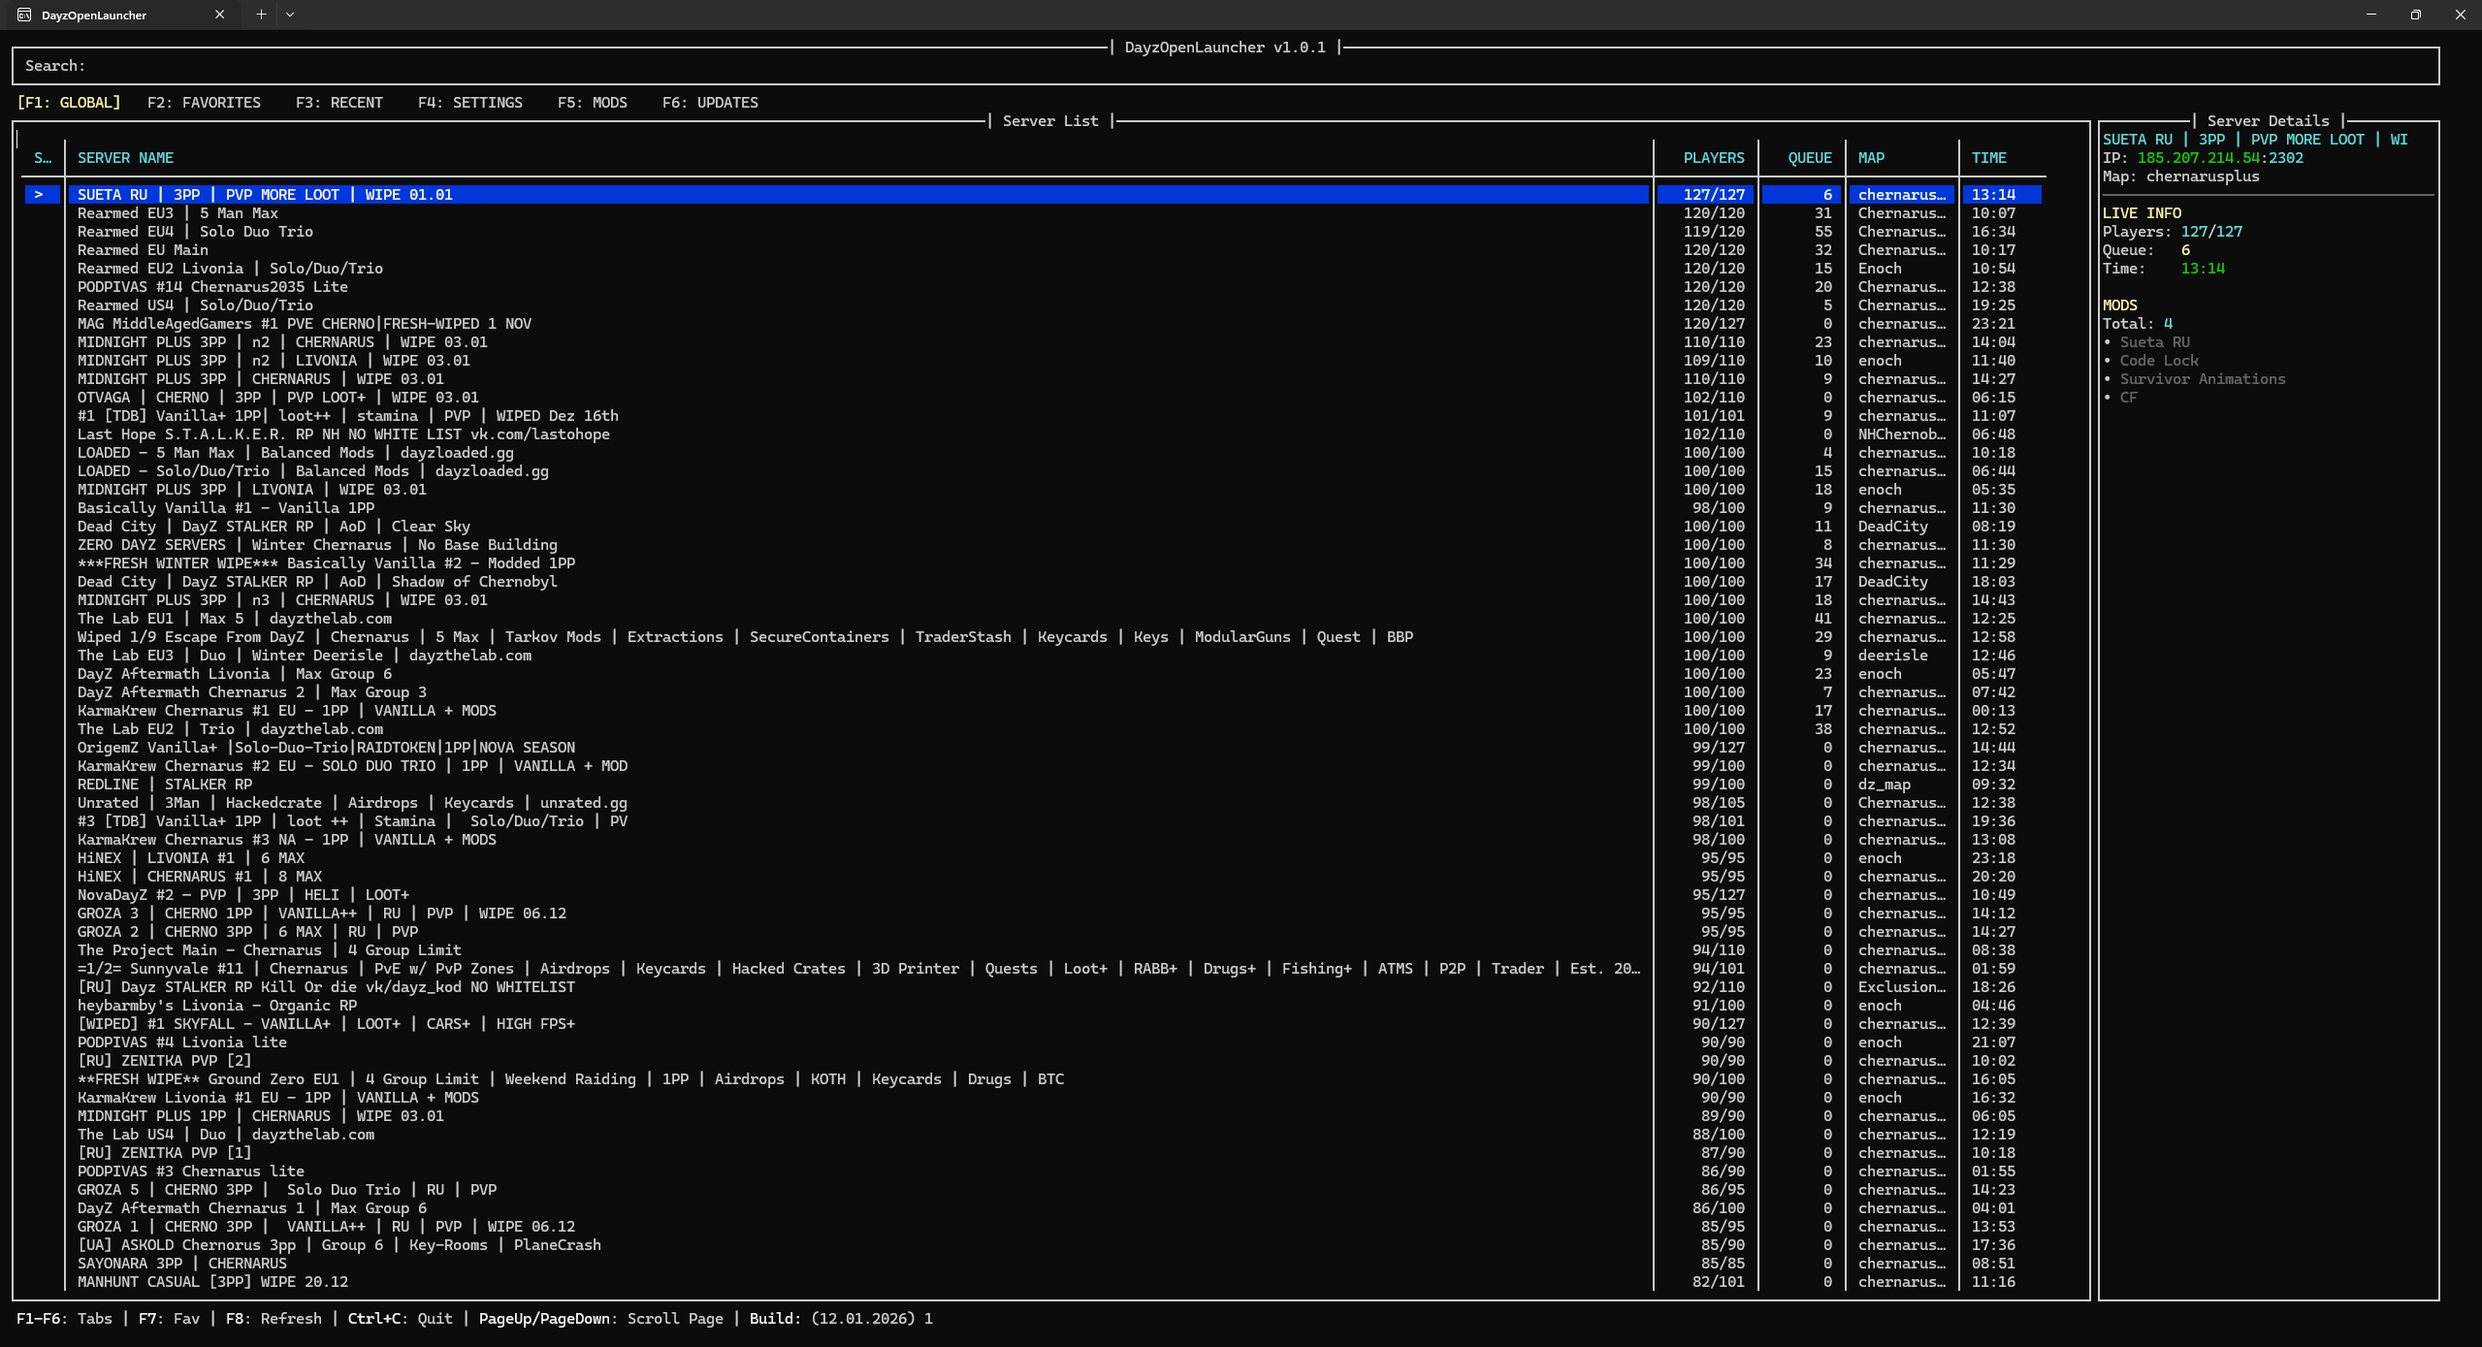
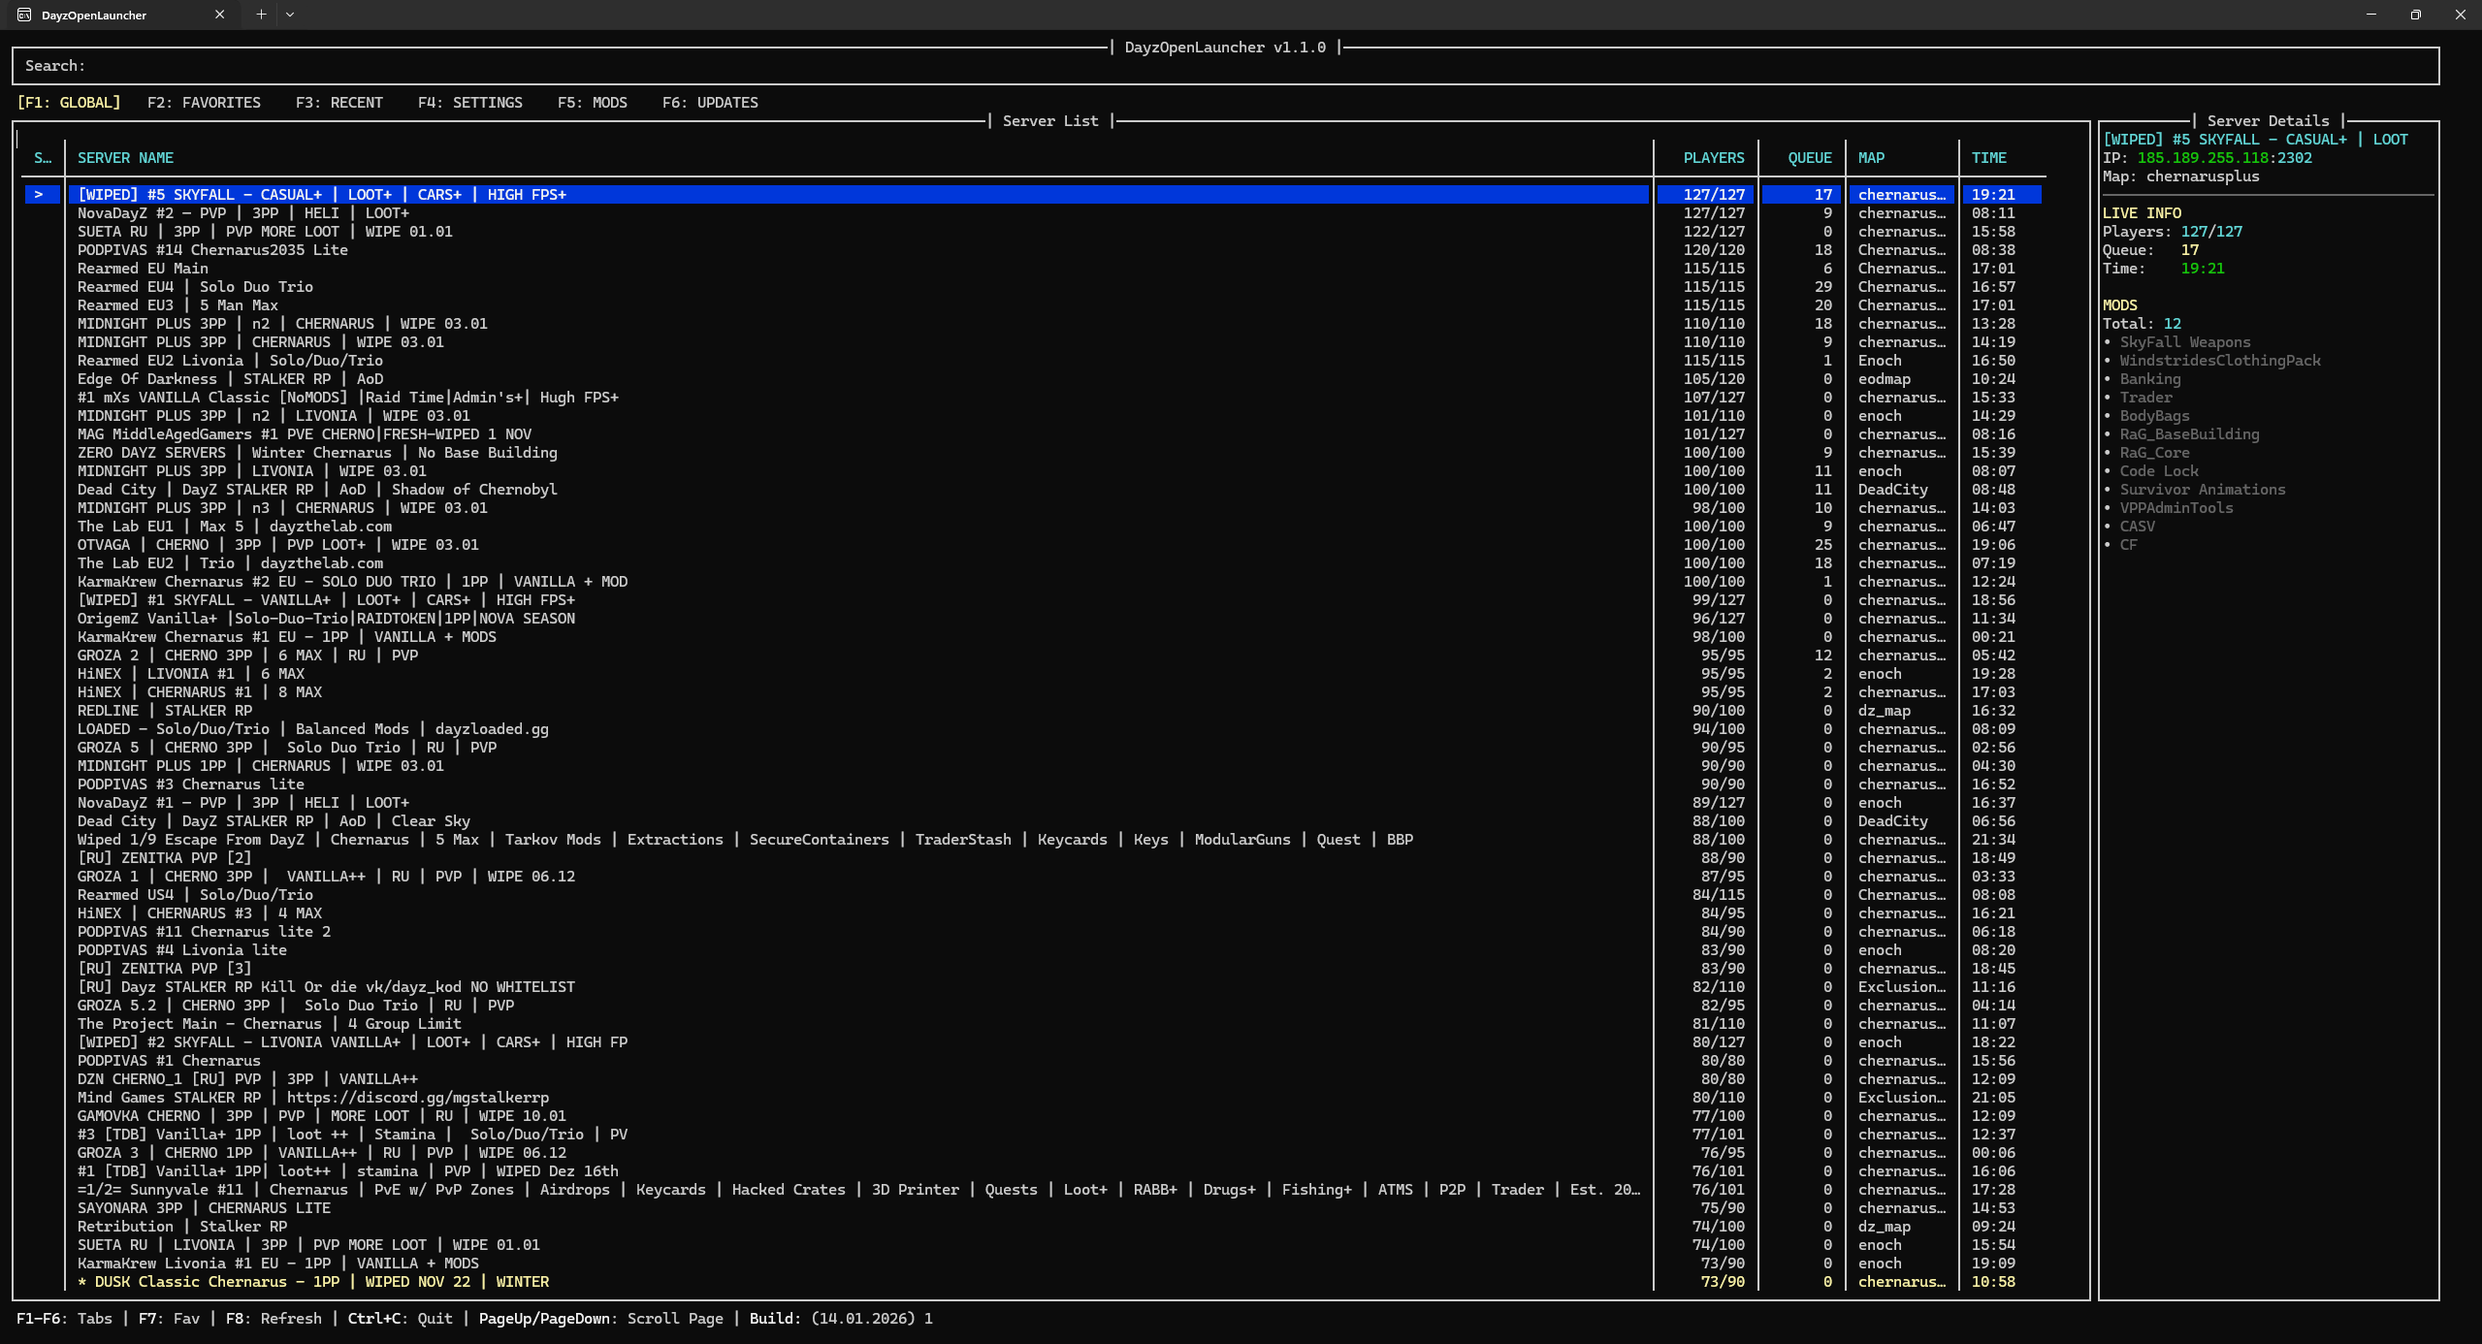
Update to version 1.1.0 - add linux update process

diff --git a/Source/linux/updater.py b/Source/linux/updater.py
@@ -1,0 +1,138 @@
+import os
+import sys
+import time
+import zipfile
+import logging
+import requests
+import subprocess
+import shutil
+from pathlib import Path
+
+REPO = "PawelKawka/DayzOpenLauncher"
+GITHUB_API_URL = f"https://api.github.com/repos/{REPO}/releases/latest"
+
+def setup_logging(root_dir):
+    log_file = root_dir / "updater.log"
+    logging.basicConfig(
+        level=logging.INFO,
+        format='%(asctime)s [%(levelname)s] %(message)s',
+        handlers=[
+            logging.FileHandler(log_file),
+            logging.StreamHandler()
+        ]
+    )
+
+def kill_process_by_name(name):
+    try:
+        if sys.platform != "win32":
+            my_pid = os.getpid()
+            pids_raw = subprocess.check_output(["pgrep", "-f", name]).decode().split()
+            for pid_str in pids_raw:
+                pid = int(pid_str)
+                if pid != my_pid:
+                    logging.info(f"Force closing process PID: {pid}")
+                    try:
+                        os.kill(pid, 9)
+                    except OSError:
+                        pass
+    except subprocess.CalledProcessError:
+        pass
+    except Exception as e:
+        logging.warning(f"Error closing processes: {e}")
+
+def update():
+    if getattr(sys, 'frozen', False):
+        current_exe = Path(sys.executable)
+        if current_exe.parent.name == "_internal":
+            root_dir = current_exe.parent.parent
+        else:
+            root_dir = current_exe.parent
+    else:
+        root_dir = Path(__file__).parent.parent.parent
+    
+    setup_logging(root_dir)
+    logging.info("Starting update process...")
+
+    time.sleep(2)
+
+    try:
+        logging.info("Fetching latest release from GitHub...")
+        response = requests.get(GITHUB_API_URL, timeout=15)
+        response.raise_for_status()
+        data = response.json()
+        version = data.get("tag_name", "unknown")
+
+        assets = data.get("assets", [])
+        download_url = next((a.get("browser_download_url") for a in assets if "linux.zip" in a.get("name", "").lower()), None)
+
+        if not download_url:
+            logging.error("Error: linux.zip not found in Release")
+            return
+
+        zip_path = root_dir / "update_package.zip"
+        logging.info(f"Downloading version {version} from: {download_url}")
+        
+        with requests.get(download_url, stream=True, timeout=60) as r:
+            r.raise_for_status()
+            with open(zip_path, 'wb') as f:
+                for chunk in r.iter_content(chunk_size=1024*1024):
+                    f.write(chunk)
+
+        logging.info("Installing...")
+        temp_extract = root_dir / "temp_update_extract"
+        if temp_extract.exists(): shutil.rmtree(temp_extract)
+        temp_extract.mkdir()
+        
+        with zipfile.ZipFile(zip_path, 'r') as zip_ref:
+            zip_ref.extractall(temp_extract)
+
+        source_content_dir = None
+        for p in temp_extract.rglob("DayzOpenLauncher"):
+            if p.is_file():
+                source_content_dir = p.parent
+                break
+        
+        if not source_content_dir:
+            logging.error("Error: Binary not found in update package")
+            return
+
+        logging.info(f"Copying new files from {source_content_dir} to {root_dir}")
+        
+        for item in source_content_dir.iterdir():
+            if item.name == "updater" or item.name == "updater.log" or item.name == "update_package.zip":
+                continue 
+                
+            dest = root_dir / item.name
+            try:
+                if item.is_dir():
+                    if dest.exists(): shutil.rmtree(dest)
+                    shutil.copytree(item, dest)
+                else:
+                    if dest.exists(): dest.unlink()
+                    shutil.copy2(item, dest)
+            except Exception as e:
+                logging.warning(f"Problem copying {item.name}: {e}. Continuing...")
+
+        logging.info("Cleaning up temporary files...")
+        zip_path.unlink(missing_ok=True)
+        shutil.rmtree(temp_extract, ignore_errors=True)
+
+        launcher_path = root_dir / "DayzOpenLauncher"
+        if launcher_path.exists():
+            try:
+                os.chmod(launcher_path, 0o755)
+            except: pass
+            
+            logging.info(f"Update to {version} successful")
+            logging.info("You can now run it using command: dayzopenlauncher")
+            sys.exit(0)
+        else:
+            logging.error("CRITICAL ERROR: Launcher binary not found after update")
+            sys.exit(1)
+
+    except Exception as e:
+        logging.error(f"Critical update error: {e}", exc_info=True)
+        sys.exit(1)
+
+if __name__ == "__main__":
+    update()

diff --git a/Source/main.py b/Source/main.py
@@ -1,5 +1,19 @@
 import sys
 import os
+import requests
+import subprocess
+import platform
+import logging
+from pathlib import Path
+
+logging.basicConfig(
+    level=logging.INFO,
+    format='%(asctime)s [%(levelname)s] %(message)s',
+    handlers=[
+        logging.FileHandler(Path(__file__).parent / "launcher.log"),
+        logging.StreamHandler()
+    ]
+)
 
 if getattr(sys, 'frozen', False):
     root_dir = os.path.dirname(sys.executable)
@@ -9,8 +23,103 @@ if getattr(sys, 'frozen', False):
 else:
     sys.path.insert(0, os.path.dirname(__file__))
 
-if __name__ == "__main__":
-    from start import DayZLauncherTUI
+from constants import VERSION
+
+def start_update_process():
+    logging.info("Initiating the update process...")
+    try:
+        if getattr(sys, 'frozen', False):
+            base_dir = Path(sys.executable).parent
+            updater_bin = base_dir / "_internal" / "updater"
+            if not updater_bin.exists():
+                updater_bin = base_dir / "updater"
+            
+            if platform.system() == "Linux":
+                try:
+                    os.chmod(updater_bin, 0o755)
+                except:
+                    pass
+                os.execv(str(updater_bin), [str(updater_bin)])
+            else:
+                subprocess.Popen([str(updater_bin)], start_new_session=True, cwd=str(base_dir))
+                sys.exit(0)
+        else:
+            base_dir = Path(__file__).parent
+            updater_script = base_dir / "linux" / "updater.py"
+            if platform.system() == "Linux":
+                os.execv(sys.executable, [sys.executable, str(updater_script)])
+            else:
+                subprocess.Popen([sys.executable, str(updater_script)], start_new_session=True, cwd=str(base_dir))
+                sys.exit(0)
+        
+        logging.info("Updater has been started. Closing the main application.")
+    except Exception as e:
+        logging.error(f"Failed to start the update process: {e}")
+
+def check_for_updates():
+    repo = "PawelKawka/DayzOpenLauncher"
+    api_url = f"https://api.github.com/repos/{repo}/releases/latest"
     
+    try:
+        logging.info("Checking for updates...")
+        response = requests.get(api_url, timeout=5)
+        response.raise_for_status()
+        data = response.json()
+        latest_tag = data.get("tag_name", "").lstrip('v')
+        
+        if latest_tag != VERSION:
+            logging.info(f"New version available: {latest_tag}")
+            return True, latest_tag
+    except requests.exceptions.RequestException as e:
+        logging.error(f"Network error while checking for updates: {e}")
+    except Exception as e:
+        logging.error(f"Unexpected error while checking for updates: {e}")
+    
+    return False, None
+
+if __name__ == "__main__":
+    if len(sys.argv) > 1 and sys.argv[1].lower() == "remove":
+        print("--- DayzOpenLauncher removal ---")
+        confirm = input("Are you sure you want to remove DayzOpenLauncher? (y/N): ")
+        if confirm.lower() == 'y':
+            try:
+                home = Path.home()
+                install_dir = home / ".local" / "share" / "DayzOpenLauncher"
+                if install_dir.exists():
+                    import shutil
+                    shutil.rmtree(install_dir)
+                    print(f"Removed files: {install_dir}")
+
+                potential_links = [
+                    home / ".local" / "bin" / "dayzopenlauncher",
+                    Path("/usr/local/bin/dayzopenlauncher")
+                ]
+                for link in potential_links:
+                    if link.exists():
+                        if os.access(link, os.W_OK):
+                            link.unlink()
+                            print(f"Removed symlink: {link}")
+                        else:
+                            print(f"Requesting sudo to remove link: {link}")
+                            os.system(f"sudo rm {link}")
+
+                config_dir = home / ".config" / "DayzOpenLauncher"
+                if config_dir.exists():
+                    rem_conf = input("Do you want to remove config and favorites? (y/N): ")
+                    if rem_conf.lower() == 'y':
+                        import shutil
+                        shutil.rmtree(config_dir)
+                        print(f"Removed configuration: {config_dir}")
+
+                print("Done")
+            except Exception as e:
+                print(f"Error during removal: {e}")
+        sys.exit(0)
+
+    from start import DayZLauncherTUI
     tui = DayZLauncherTUI()
     tui.run()
+    
+    if tui.run_update_on_exit:
+        start_update_process()
+

diff --git a/Source/keybindings.py b/Source/keybindings.py
@@ -83,10 +83,13 @@ class KeyBinder:
         def _updates(event): self.tui.switch_tab("UPDATES")
         
         @kb.add('enter', filter=Condition(lambda: self.tui.current_tab == "UPDATES" and not self.tui.show_launch_dialog))
-        def _open_update_link(event):
+        def _start_update(event):
             if self.tui.latest_update_info:
-                import webbrowser
-                webbrowser.open(self.tui.latest_update_info.get("url", "https://github.com/PawelKawka/DayzOpenLauncher/releases"))
+                if hasattr(self.tui, 'update_checker'):
+                    self.tui.update_checker.start_update_process()
+                else:
+                    import webbrowser
+                    webbrowser.open(self.tui.latest_update_info.get("url", "https://github.com/PawelKawka/DayzOpenLauncher/releases"))
 
         @kb.add('f7')
         def _favorite_global(event):

diff --git a/Source/ui_layout.py b/Source/ui_layout.py
@@ -1,4 +1,5 @@
 import textwrap
+import platform
 from prompt_toolkit.layout import Layout, HSplit, VSplit, Window, FormattedTextControl, FloatContainer, Float, DynamicContainer, ConditionalContainer
 from prompt_toolkit.widgets import Frame, TextArea, Label, Button, Shadow
 from prompt_toolkit.key_binding import KeyBindings
@@ -172,5 +173,11 @@ class UILayout:
                 res.append(("", "  ...\n"))
         
         res.append(("", "\n"))
-        res.append(("ansigreen bold", " Press ENTER to open download page\n"))
+        
+        if platform.system() == "Linux":
+            update_text = " Press ENTER to start update process\n"
+        else:
+            update_text = " Press ENTER to open browser and download setup\n"
+            
+        res.append(("ansigreen bold", update_text))
         return res

diff --git a/Source/update_checker.py b/Source/update_checker.py
@@ -2,6 +2,11 @@ import threading
 import time
 import requests
 import webbrowser
+import os
+import sys
+import subprocess
+import platform
+from pathlib import Path
 from prompt_toolkit.filters import Condition
 from constants import VERSION
 
@@ -43,3 +48,16 @@ class UpdateChecker:
                 pass
                 
         threading.Thread(target=_check, daemon=True).start()
+
+    def start_update_process(self):
+        if platform.system() != "Linux":
+            webbrowser.open(self.tui.latest_update_info.get("url", ""))
+            return
+
+        try:
+            self.tui.run_update_on_exit = True
+            if hasattr(self.tui, 'app'):
+                self.tui.app.exit()
+        except Exception as e:
+            import logging
+            logging.error(f"Error initiating update: {e}")

diff --git a/Source/start.py b/Source/start.py
@@ -89,6 +89,7 @@ class DayZLauncherTUI:
         self.show_launch_dialog = False
         self.launch_message = ""
         self.latest_update_info = None
+        self.run_update_on_exit = False
         
         self.live_updater = LiveUpdater(
              self.data_manager.browser, 
@@ -304,7 +305,8 @@ class DayZLauncherTUI:
         except:
             pass
 
-        os._exit(0)
+        if not self.run_update_on_exit:
+            os._exit(0)
 
 if __name__ == "__main__":
     tui = DayZLauncherTUI()

diff --git a/Source/constants.py b/Source/constants.py
@@ -1,5 +1,5 @@
-VERSION = "1.0.1"
-BUILD_INFO = "(12.01.2026) 1"
+VERSION = "1.1.0"
+BUILD_INFO = "(14.01.2026) 1"
 APP_NAME = "DayzOpenLauncher"
 DZSA_API_URL = "https://dayzsalauncher.com/api/v2/launcher/servers/dayz"
 CONFIG_FILE_NAME = "config.json"

diff --git a/README.md b/README.md
@@ -27,21 +27,19 @@ A simple Python TUI launcher for Windows PowerShell and Linux terminals that all
 - Because this project is free and open source the installer does not come with a digital certificate. Windows may display a SmartScreen message when you first run it.
 
 ### Linux
-1. Go to the [Releases](https://github.com/PawelKawka/DayzOpenLauncher/releases) page.
-2. Download the `dayzopenlauncher-linux` and extract it.
-3. Open a terminal in the extracted folder.
-4. Run the installation script:
+1. Run the installation script using curl:
    ```bash
-   sudo chmod +x install.sh
-   ./install.sh
+   curl -sSL "https://raw.githubusercontent.com/PawelKawka/DayzOpenLauncher/main/install.sh" | bash
+   ```
+2. To launch the app, run:
+   ```bash
+   dayzopenlauncher
    ```
 
 #### Removing
-
- - To remove the launcher, run the following command in the extracted folder:
-
+ - To remove the launcher, run:
 ```bash
-./install.sh --uninstall
+dayzopenlauncher remove
 ```
 
 ## API
@@ -54,5 +52,3 @@ A simple Python TUI launcher for Windows PowerShell and Linux terminals that all
 ## About
 - The program is multi platform (Windows/Linux).
 - Everything is in development.
-- The Linux launcher and install script have been tested on Debian/Ubuntu.
-
